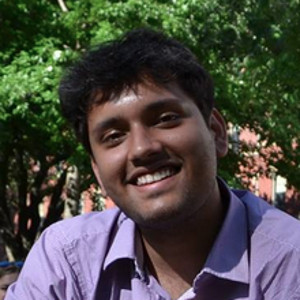
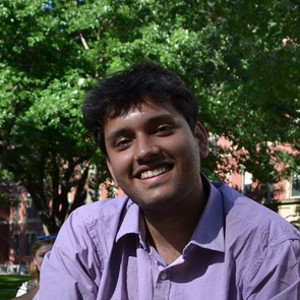
new ta photos
Former-commit-id: 217f84ec0b5501b43931d660bd8a6aac89537d77

diff --git a/index.html b/index.html
@@ -140,7 +140,7 @@
 
 					</div>
 					<br>
-					<h3>Teaching Assistants</h4>
+					<h3>Teaching Assistants</h3>
 					<div class="flex flex-4">
 
 						<div class="box person">
@@ -155,33 +155,36 @@
 							</div>
 							<h4>Yilun Du</h4>
 						</div>
-						<!--<div class="box person">
+						<div class="box person">
 							<div class="image round">
 								<img src="images/abhi.jpg" alt="Abhi" />
 							</div>
 							<h4>Abhimanyu Dubey</h4>
 						</div>
-						-->
 						<div class="box person">
 							<div class="image round">
 								<img src="images/jjgo.jpg" alt="Jose" />
 							</div>
 							<h4>Jose Javier Gonzalez Ortiz</h4>
 						</div>
-						<!--<div class="box person">
+						<div class="box person">
 							<div class="image round">
 								<img src="images/ajlynch.jpg" alt="ajlynch" />
 							</div>
 							<h4>Alex Lynch</h4>
 						</div>
-
+						<div class="box person">
+							<div class="image round">
+								<img src="images/nikhil.jpg" alt="faraaz" />
+							</div>
+							<h4>Nikhil Murthy</h4>
+						</div>
 						<div class="box person">
 							<div class="image round">
 								<img src="images/faraaz.jpg" alt="faraaz" />
 							</div>
 							<h4>Faraaz Nadeem</h4>
 						</div>
-						-->
 						<div class="box person">
 							<div class="image round">
 								<img src="images/tim.jpg" alt="tim" />
@@ -194,13 +197,12 @@
 							</div>
 							<h4>Neha Prasad</h4>
 						</div>
-						<!--<div class="box person">
+						<div class="box person">
 							<div class="image round">
 								<img src="images/bhakti.jpg" alt="bhakti" />
 							</div>
 							<h4>Bhaktipriya Radharapu</h4>
 						</div>
-						-->
 
 
 					</div>
